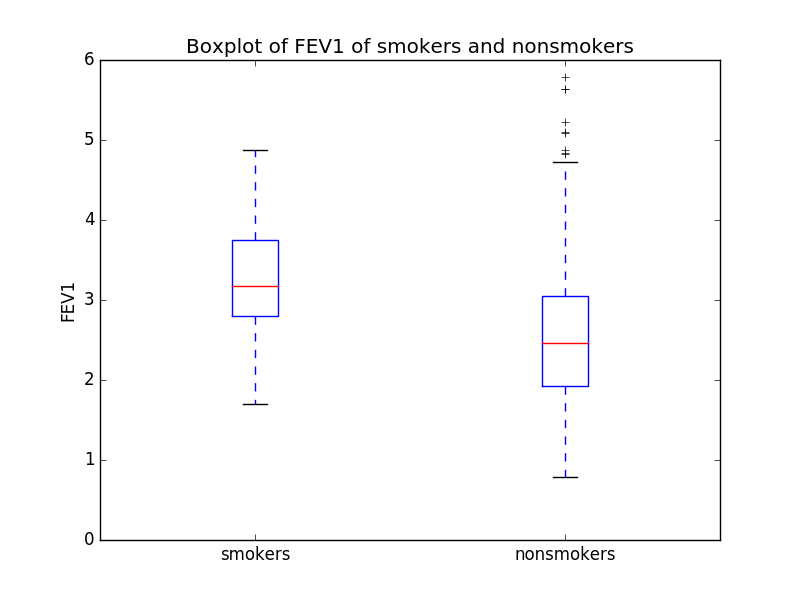
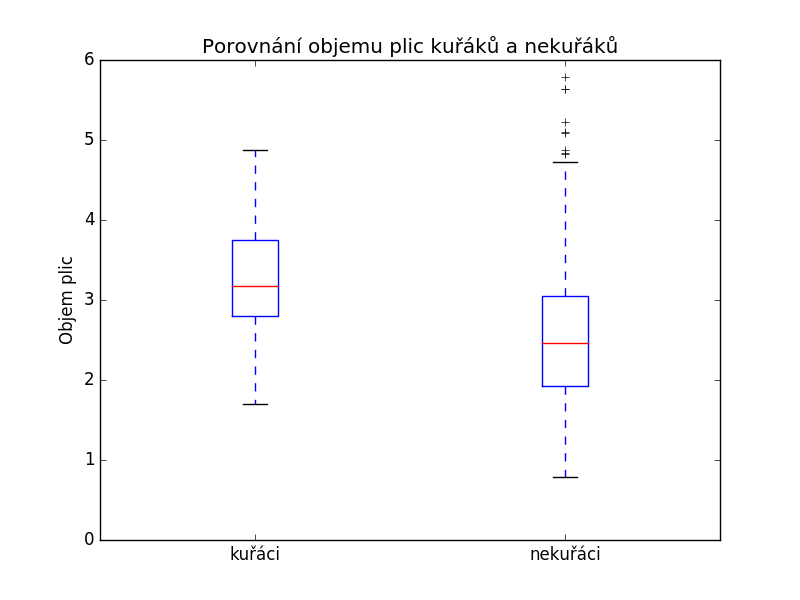
Post 4 done

diff --git a/_posts/2016-02-22-studujeme.md b/_posts/2016-02-22-studujeme.md
@@ -5,57 +5,61 @@ title:  "Studujeme!"
 
 Je to tak. My tady opravdu i studujeme!
 Mezi vším tím seznamováním, prohlížením památek, sportováním, vařením a tancováním si sem tam najdeme čas i na školu.
-Abyste si mohli udělat představu, tak vám v tomhle článku řekneme něco o dánském školství, o naší škole a o předmětech, které tady studujeme.
+Abyste si nemysleli, že kecáme, tak vám v&nbsp;tomhle článku řekneme něco o&nbsp;dánském školství, o&nbsp;naší škole a o&nbsp;předmětech, které tady studujeme.
 
-Naše škola je [University of Copenhagen](http://www.ku.dk/english/), která nemá samostatnou fakultu informatiky,
-takže spadáme pod katedru informatiky v rámci přírodovědecké fakulty.
+Naše škola, [University of Copenhagen](http://www.ku.dk/english/), nemá samostatnou fakultu informatiky,
+takže spadáme pod přírodovědeckou fakultu.
+To ale vůbec nevadí, protože jedna z jejích kateder se věnuje informatice a tím pádem je tady dostatek informatických předmětů.
 Univerzita má několik kampusů po celé Kodani.
-Přírodovědecká fakulta má sídlo v severním kampusu (Østerbro H3Q1A0G5),
+Přírodovědecká fakulta má sídlo v&nbsp;severním kampusu (Østerbro H3Q1A0G5),
 který je blízko našich kolejí.
 Do školy jezdíme na kole přes park. Cesta nezabere ani patnáct minut.
 
 {% include img caption="Naše škola" path="/img/post4/budova-skoly.jpg" %}
 
 Během Welcome weeku nás všichni strašili, že budeme číst tuny knížek a psát eseje.
-Věrohodnost těchto tvrzení zvyšoval fakt, že v každém kampusu mají několik rozsáhlých knihoven,
-například v severním kampusu máme knihovny v budovách T2V5I3B2A4H5V5Q1 a I7J5Q2G5T7J2.
-Naštěstí se to ukázalo jako fáma, studium informatiky je pořád hlavně o programování, i když je pravda, že sem tam něco málo musíme přečíst nebo napsat.
+Věrohodnost těchto tvrzení zvyšoval fakt, že v&nbsp;každém kampusu mají několik rozsáhlých knihoven,
+například v&nbsp;severním kampusu máme knihovny v&nbsp;budovách T2V5J2B2A4H5V5Q1 a L4J5Q2G5T7J2.
+Naštěstí se to ukázalo jako fáma.
+Studium informatiky je pořád hlavně o&nbsp;programování, i když je pravda, že sem tam něco málo musíme přečíst nebo napsat.
 
-V Dánsku nemají známky A-F, ale používají vlastní sedmiúrovňovou stupnici hodnocení.
-Za nejlepší výkon získáte dvanáct bodů, za dobrý deset a tak dál a za nedostatečný výkon nula bodů.
+V&nbsp;Dánsku nemají známky A-F, ale používají velmi sofistikovanou [sedmiúrovňovou stupnici hodnocení](https://cs.wikipedia.org/wiki/Folkeskole).
+Za nejlepší výkon získáte dvanáct bodů, za dobrý deset a tak dál, až za nedostatečný výkon nula bodů.
 Stupnice má dokonce dva stupně failnutí, takže pokud jste úplně marní, získáte mínus tři body.
 
 Největší rozdíl oproti studiu na FI je ten, že máme pouze dva předměty. Zato ale pořádně velké (každý za 7 a půl kreditu).
-Tyhle dva předměty budeme mít jen do půlky semestru a v druhé polovině budeme mít jiné dva předměty.
-Na FI míváme kolem deseti předmětů a člověk tak musí neustále přepínat, tady se můžeme na předmět opravdu pořádně soustředit.
-Zatím nám to přijde fajn, ale FI má taky svoje výhody. Například širší záběr znalostí a větší diverzita, takže si třeba můžu zapsat nějakou malou dvoukreditovou "bokovku", co mě zajímá, i když jde mimo mé zaměření.
+Tyhle dva kurzy budeme mít jen do půlky semestru a v&nbsp;druhé polovině budeme mít další dva.
+Na FI míváme kolem deseti předmětů a člověk tak musí neustále přepínat, tady se můžeme pořádně soustředit na jedno téma.
+Zatím nám to přijde fajn, ale FI má taky svoje výhody, například
+umožňuje větší diverzitu a získáme širší záběr znalostí.
+Na FI si můžu zapsat nějakou dvoukreditovou "bokovku", která mě zajímá, i když jde mimo mé zaměření, to tady nejde.
 
-Taky je tady mnohem větší důraz na práci doma, takže ve škole trávíme jenom dva a půl dne týdně, z toho je šest hodin přednášek.
-Přednášky jsou interaktivnější, přednášející se s námi pořád komunikuje a snaží se, abychom na důležité myšlenky přišli sami, místo toho, aby nám je prostě řekli.
-Cvičení probíhají tak, že si samostatně děláme na projektech a když máme s něčím problém, tak se zeptáme cvičícího,
-u toho svačíme a kdykoliv odejdeme.
+Taky je tady mnohem větší důraz na práci doma, takže ve škole trávíme jenom dva a půl dne týdně.
+Přednášky jsou interaktivnější, vyučující s&nbsp;námi pořád komunikuje a snaží se, abychom na důležité myšlenky přišli sami, místo toho, aby nám je prostě řekl.
+Cvičení probíhají tak, že si samostatně děláme na projektech a když máme s&nbsp;něčím problém, tak se zeptáme cvičícího.
+U&nbsp;toho si povídáme, svačíme a kdykoliv odejdeme.
 Celkově jsou předměty dost prakticky orientované, takže se od prvního momentu zdokonalujeme a učíme něco užitečného.
 
 {% include img caption="Přednáškovka Y3H1N5G4T1K5V5" path="/img/post4/lille-up1.jpg" %}
 
-Prvním naším předmětem je V5Y3O4X3I3N1L2Y2 *Metody analýzy dat*, ve kterém si tak různě hrajeme z daty v Pythonu, vizualizujeme, testujeme hypotézy, aplikujeme na ně strojové učení a tak.
-Během semestru budeme mít pět domácích úkolů, které vždy zahrnují něco naprogramovat a napsat k tomu report.
+Prvním naším předmětem je V5Y3Q2X3K1N1L2Y2 *Metody analýzy dat*, ve kterém si hrajeme s&nbsp;daty v&nbsp;Pythonu, vizualizujeme, testujeme hypotézy, aplikujeme na ně strojové učení a tak.
+Během semestru budeme mít pět projektů, které vždy vyžadují něco naprogramovat a napsat k&nbsp;tomu report.
 Závěrečná zkouška pak bude zase ve formě úkolu, na jehož vypracování budeme mít několik dní.
-První úkol, který jsme už odevzdali, se zabýval analýzou objemu plic kuřáků a nekuřáků.
-Navzdory očekávání byl průměrný objem plic kuřáku v našich datech větší než objem plic nekuřáků, a to dokonce statisticky významně (což jsme ověřili pomocí [dvouvýběrového t-testu](https://cs.wikipedia.org/wiki/T_test)).
-Další analýzou dat jsme odhalili příčinu: v našich datech bylo hodně malých dětí, kteří jsou všichni nekuřáci, ale přitom mají malý objem plic.
-Kouření je pouze jedním z faktorů ovlivňujících objem plic, roli hraje i věk, hmotnost a další parametry.
+První projekt, který jsme už odevzdali, se zabýval analýzou objemu plic kuřáků a nekuřáků.
+Navzdory očekávání byl průměrný objem plic kuřáku v&nbsp;našich datech větší než objem plic nekuřáků, a to dokonce statisticky významně (což jsme ověřili pomocí [dvouvýběrového t-testu](https://cs.wikipedia.org/wiki/T_test)).
+Další analýzou dat jsme odhalili příčinu: v&nbsp;našich datech bylo hodně malých dětí, kteří jsou všichni nekuřáci, ale přitom mají malý objem plic.
+Kouření je pouze jedním z&nbsp;faktorů ovlivňujících objem plic, roli hraje i věk, hmotnost a další parametry.
 
-{% include img caption="Objem plic kuřáků a nekuřáků" path="/img/post4/boxplot.png" %}
+{% include img caption="Objem plic kuřáků a nekuřáků. Červená čára značí medián, modrý obdélník polovinu subjektů." path="/img/post4/boxplot.png" %}
 
-Naším druhým předmětem je W4A1T5 *Web Science*, což je tak obecný název, že si pod ním nelze nic představit, ale v podstatě jde zase o práci se spoustou dat (získaných z webu), trocha zpracování přirozeného jazyka, strojové učení a doporučovací systémy.
+Naším druhým předmětem je W4A1T5 *Web Science*, což je tak obecný název, že si pod ním nelze nic představit, ale v&nbsp;podstatě jde zase o&nbsp;práci se spoustou dat (získaných z&nbsp;webu), zpracování přirozeného jazyka, strojové učení a doporučovací systémy.
 Takže rozhodně pro nás dost zajímavé a relevantní.
-Ani tento předmět nemá klasickou závěrečnou zkoušku, známka se určí z dvou projektů, které vypracujeme v průběhu semestru.
+Ani tento předmět nemá klasickou závěrečnou zkoušku, známka se určí z&nbsp;dvou projektů, které vypracujeme v&nbsp;průběhu semestru.
 Kromě toho budeme anonymně hodnotit projekty spolužáků a kvalita poskytnuté zpětné vazby taky ovlivní naši známku.
-Cílem prvního projektu je reprodukovat výzkum o predikci míry očkování v dalších letech.
-K predikci používáme jednak data o očkování v minulosti a jednak četnost hledání informací o různých vakcínách na Googlu.
+Cílem prvního projektu je reprodukovat výzkum o&nbsp;predikci míry očkování v&nbsp;dalších letech.
+K&nbsp;predikci používáme jednak data o&nbsp;očkování v&nbsp;minulosti a jednak četnost hledání informací o&nbsp;různých vakcínách na Googlu.
 
-Bezva věc je, že se tady všude povaluje spousta tabulí (na chodbě, v kantýně, na záchodu V4W5Z1U1E4I3).  Nemohli jsme se ubránit jednu z nich využít a zadokazovat si všemi oblíbenou třetí Riceovu větu.
-Šlo o tabuli A3X3M1R1H3N1 v místnosti M3G2Q1X3P4Q4 (nebo možná to byla místnost M3H1P2X3P4T1, ale to je úplně jedno).
+Bezva věc je, že se tady všude povaluje spousta tabulí (na chodbě, v&nbsp;kantýně, na záchodu V4W5Z1U1E4J2).  Nemohli jsme se ubránit jednu z&nbsp;nich využít a zadokazovat si všemi oblíbenou třetí Riceovu větu.
+Šlo o&nbsp;tabuli A3X3M1R1H3N1 v&nbsp;místnosti M3G2Q1X3P4Q4 (nebo možná to byla místnost M3H1P2X3P4T1, ale to je úplně jedno).
 
 {% include img caption="Důkaz třetí Riceovy věty" path="/img/post4/riceova-veta.jpg" %}
